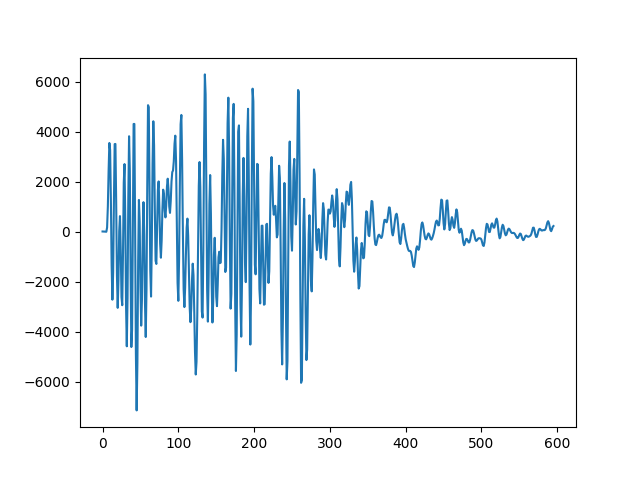
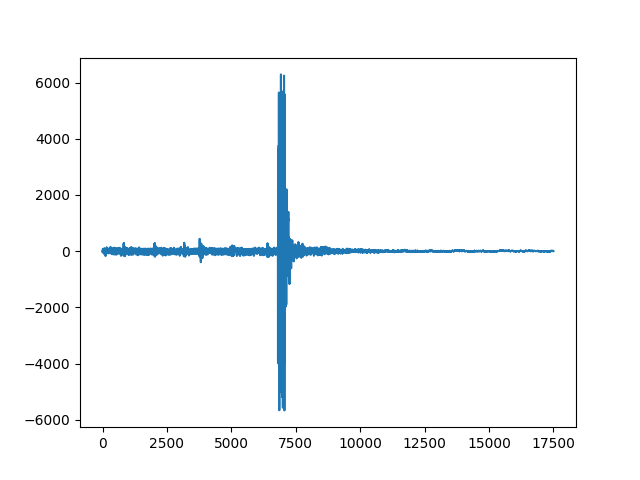
blegh

diff --git a/Beacon/noisefilter.py b/Beacon/noisefilter.py
@@ -1,0 +1,69 @@
+import numpy as np
+import matplotlib.pyplot as plt
+from scipy.io import wavfile
+from scipy.signal import butter, filtfilt
+
+def autocorrelation(seq):
+    n = len(seq)
+    result = np.correlate(seq, seq, mode='full')
+    return result[n-1:]
+
+def butter_lowpass(cutoff, fs, order=5):
+    nyquist = 0.5 * fs
+    normal_cutoff = cutoff / nyquist
+    b, a = butter(order, normal_cutoff, btype='low', analog=False)
+    return b, a
+
+def lowpass_filter(data, cutoff, fs, order=5):
+    b, a = butter_lowpass(cutoff, fs, order=order)
+    y = filtfilt(b, a, data)
+    return y
+
+# Beacon specs
+audio_file = "Beacon/reference6.wav"
+
+# Read the audio file
+Fs, audio = wavfile.read(audio_file)
+
+# Check if the audio has more than one channel and select the second channel if it does
+if audio.ndim > 1:
+    audio = audio[:, 1]
+
+# Extract the segment from reference6.wav
+segment = audio[17500:20000]
+
+# Apply low-pass filter to the segment
+cutoff_frequency = 1000  # Cutoff frequency in Hz
+filtered_segment = lowpass_filter(segment, cutoff_frequency, Fs)
+
+# Plot the original and filtered segments
+plt.figure()
+plt.subplot(2, 1, 1)
+plt.plot(segment)
+plt.title("Original Signal Segment for Beacon/reference6.wav")
+plt.xlabel("Sample Index")
+plt.ylabel("Amplitude")
+
+plt.subplot(2, 1, 2)
+plt.plot(filtered_segment)
+plt.title("Filtered Signal Segment for Beacon/reference6.wav")
+plt.xlabel("Sample Index")
+plt.ylabel("Amplitude")
+
+plt.tight_layout()
+plt.savefig("reference6_segment_filtered.png")
+plt.close()
+
+# Compute the autocorrelation of the filtered segment
+autocorr = autocorrelation(filtered_segment)
+
+# Plot the autocorrelation of the filtered segment
+plt.figure()
+plt.plot(autocorr, marker='o', linestyle='-', color='b')
+plt.title('Autocorrelation of Filtered Beacon/reference6.wav Segment')
+plt.xlabel('Lag')
+plt.ylabel('Autocorrelation')
+plt.savefig("reference6_autocorr_filtered.png")
+plt.close()
+
+print("Plots have been saved as 'reference6_segment_filtered.png' and 'reference6_autocorr_filtered.png'")

diff --git a/Optimizing.py b/Optimizing.py
@@ -11,6 +11,8 @@ from sympy import symbols, solve
 import numpy as np
 import math
 import time
+from scipy.signal import butter, filtfilt
+
 
 
 
@@ -188,6 +190,8 @@ class localization:
         return best
 
 
+
+
 if __name__ == "__main__":
 # Main block for testing
 # Read the .wav file
@@ -208,7 +212,7 @@ if __name__ == "__main__":
     
     Fref6, ref_signal6 = wavfile.read("Beacon/reference6.wav")
     ref_signal6 =  ref_signal6[:,1]
-    ref6 = ref_signal6[18800:19396]
+    ref6 = ref_signal6[0:17500]
     
     Fref8, ref_signal8 = wavfile.read("Beacon/reference8.wav")
     ref_signal8 =  ref_signal8[:,1]
@@ -268,8 +272,8 @@ if __name__ == "__main__":
         
         
         
-        x_car, y_car = localization.localization(audio, ref3)
-        print(f"{file}: x3 = {x_car}, y3 = {y_car}")
+        """ x_car, y_car = localization.localization(audio, ref3)
+        print(f"{file}: x3 = {x_car}, y3 = {y_car}") """
         
         """ x_car, y_car = localization.localization(audio, ref5)
         print(f"{file}: x5 = {x_car}, y5 = {y_car}")
@@ -280,13 +284,13 @@ if __name__ == "__main__":
         """ x_car, y_car = localization.localization(audio, ref8)
         print(f"{file}: x8 = {x_car}, y8 = {y_car}") """
         
-        x_car, y_car = localization.localization(audio, ref11)
-        print(f"{file}: x11 = {x_car}, y11 = {y_car}")
+        """ x_car, y_car = localization.localization(audio, ref11)
+        print(f"{file}: x11 = {x_car}, y11 = {y_car}") """
         
         """ x_car, y_car = localization.localization(audio, ref12)
         print(f"{file}: x12 = {x_car}, y12 = {y_car}") """
         
-        print(" ")
+  
 
     end = time.time()
     print("Total time:", end - start)
